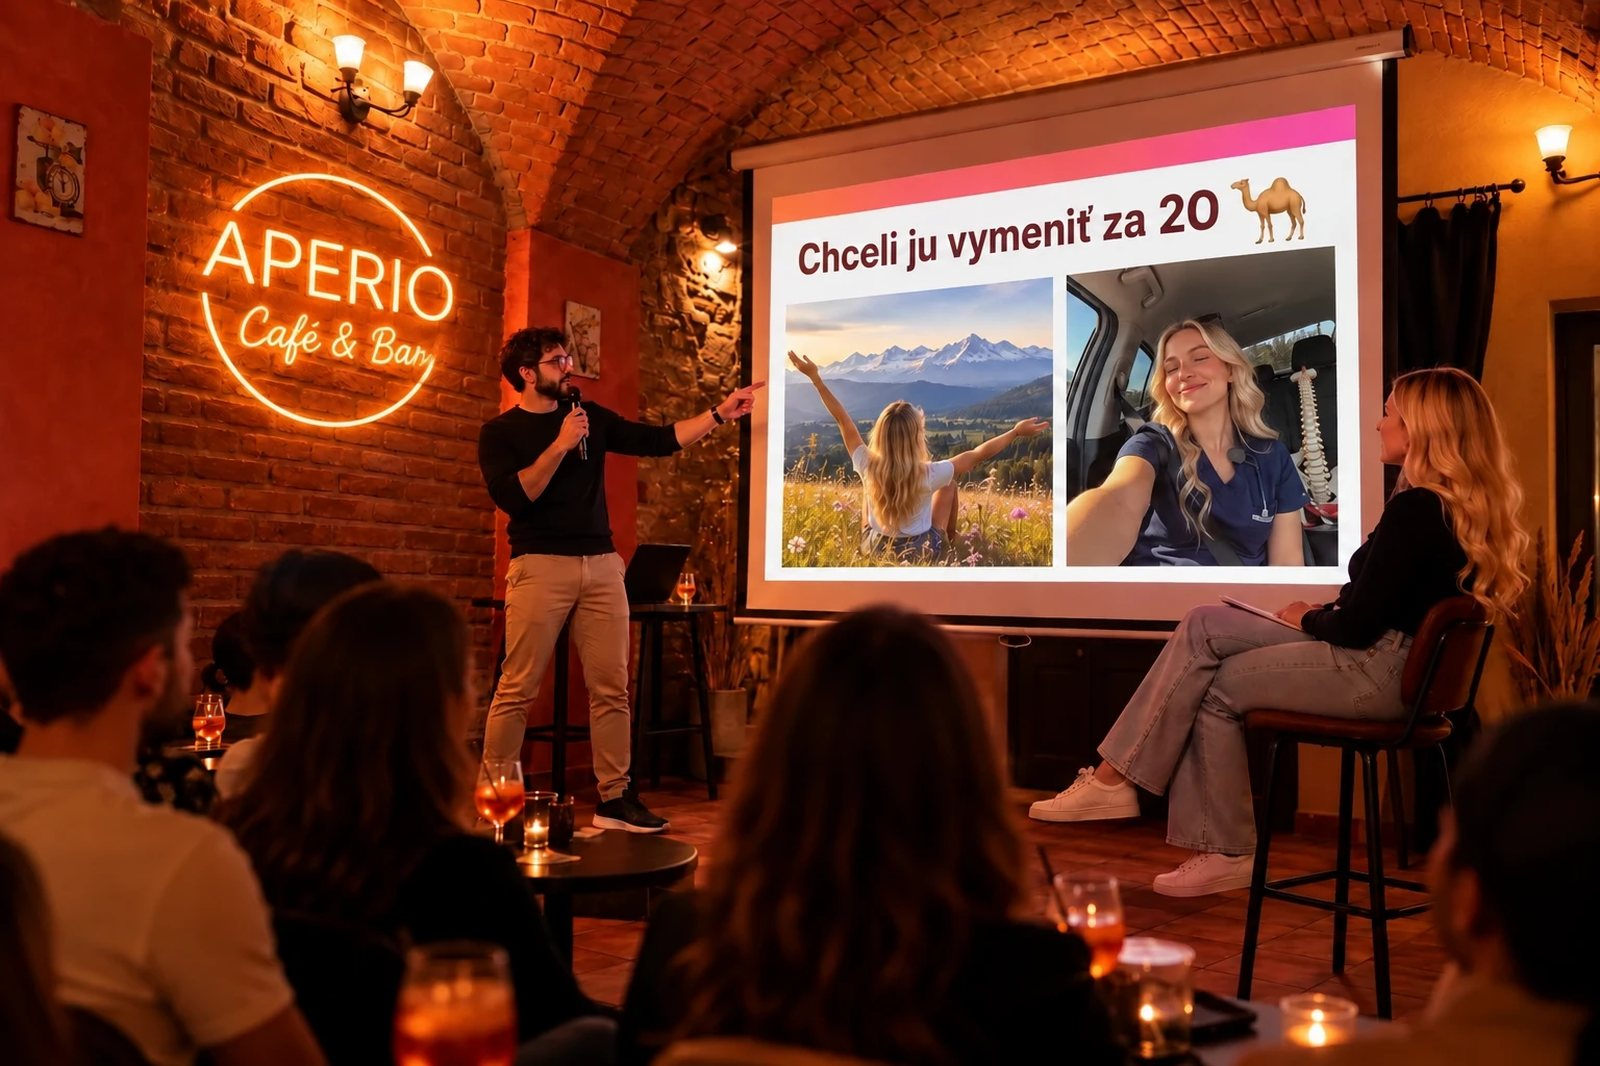
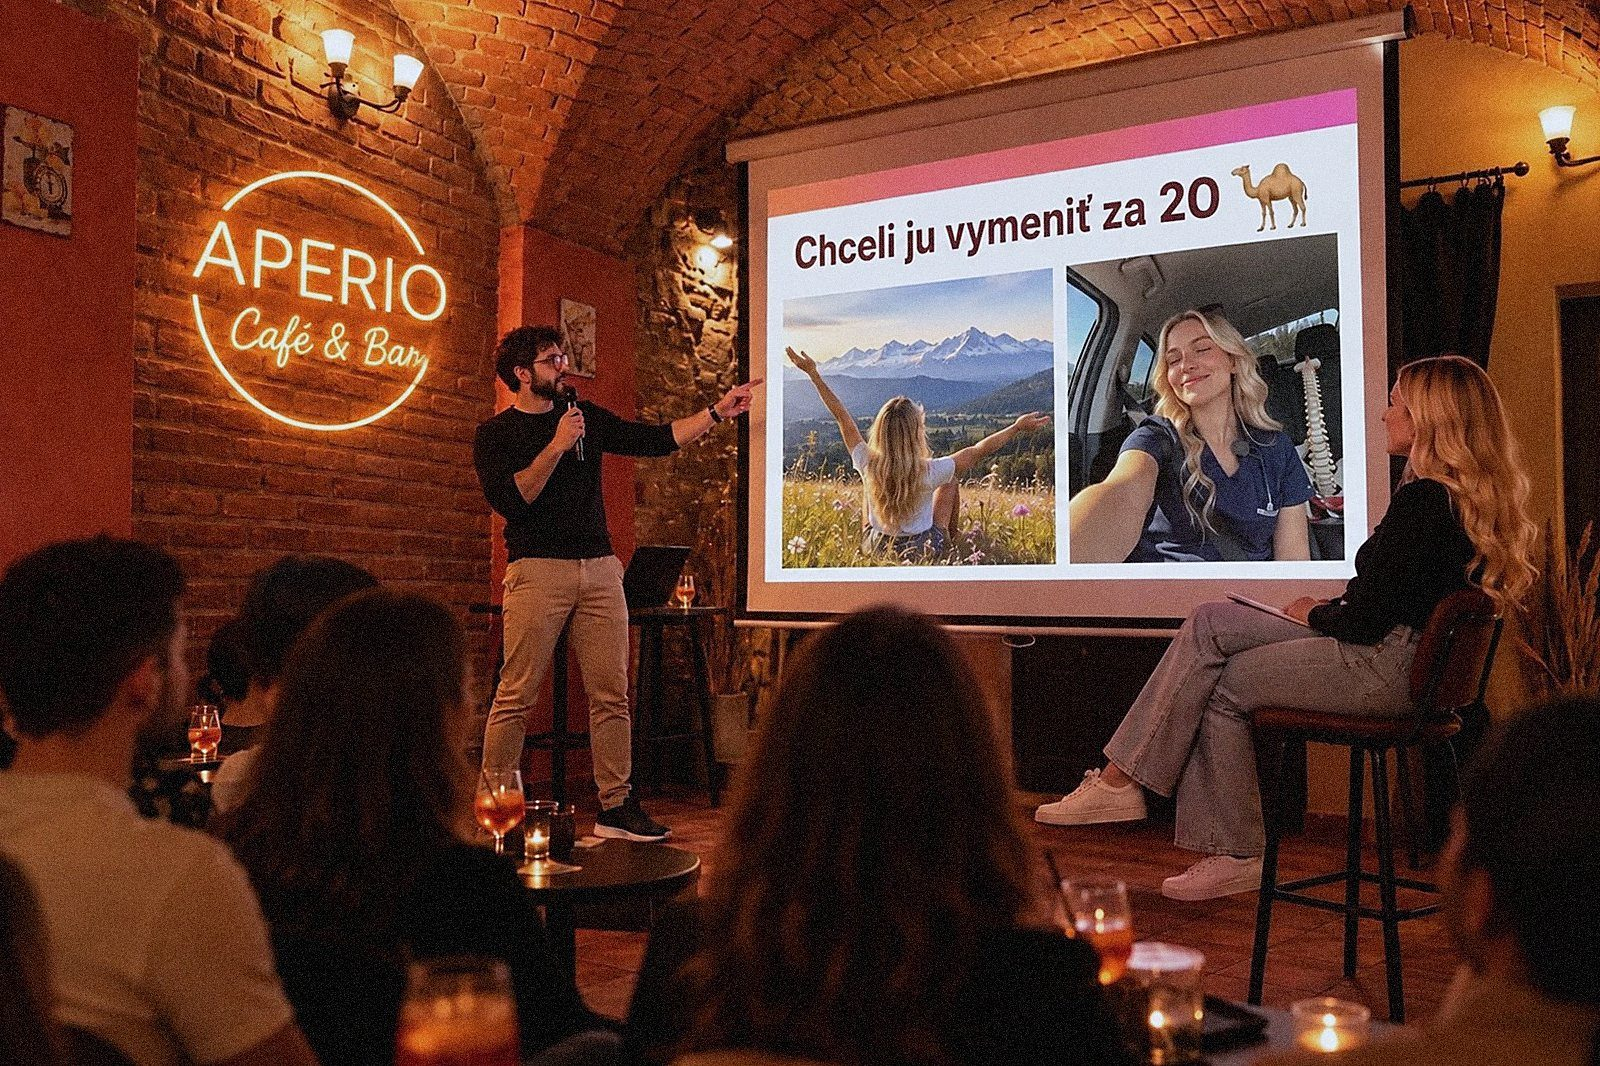
Hlavná fotka APERIO: realistickejšia, menej oranžová

diff --git a/index.html b/index.html
@@ -73,7 +73,7 @@
         </div>
         <div class="hs-media">
           <div class="hero-photo">
-            <img fetchpriority="high" class="hero-img" src="img/hero-podium-aperio.webp" srcset="img/hero-podium-aperio-800.webp 800w, img/hero-podium-aperio.webp 1600w" sizes="(max-width: 760px) 100vw, 50vw" alt="Kamoš na pódiu v APERIO Café &amp; Bar predstavuje svoju single kamarátku, za nimi plátno s jej fotkami" width="1600" height="1067">
+            <img fetchpriority="high" class="hero-img" src="img/hero-podium-aperio.webp?v=2" srcset="img/hero-podium-aperio-800.webp?v=2 800w, img/hero-podium-aperio.webp?v=2 1600w" sizes="(max-width: 760px) 100vw, 50vw" alt="Kamoš na pódiu v APERIO Café &amp; Bar predstavuje svoju single kamarátku, za nimi plátno s jej fotkami" width="1600" height="1067">
             <svg class="sparkle s1" aria-hidden="true"><use href="#sparkle"/></svg>
             <svg class="sparkle s2" aria-hidden="true"><use href="#sparkle"/></svg>
           </div>
